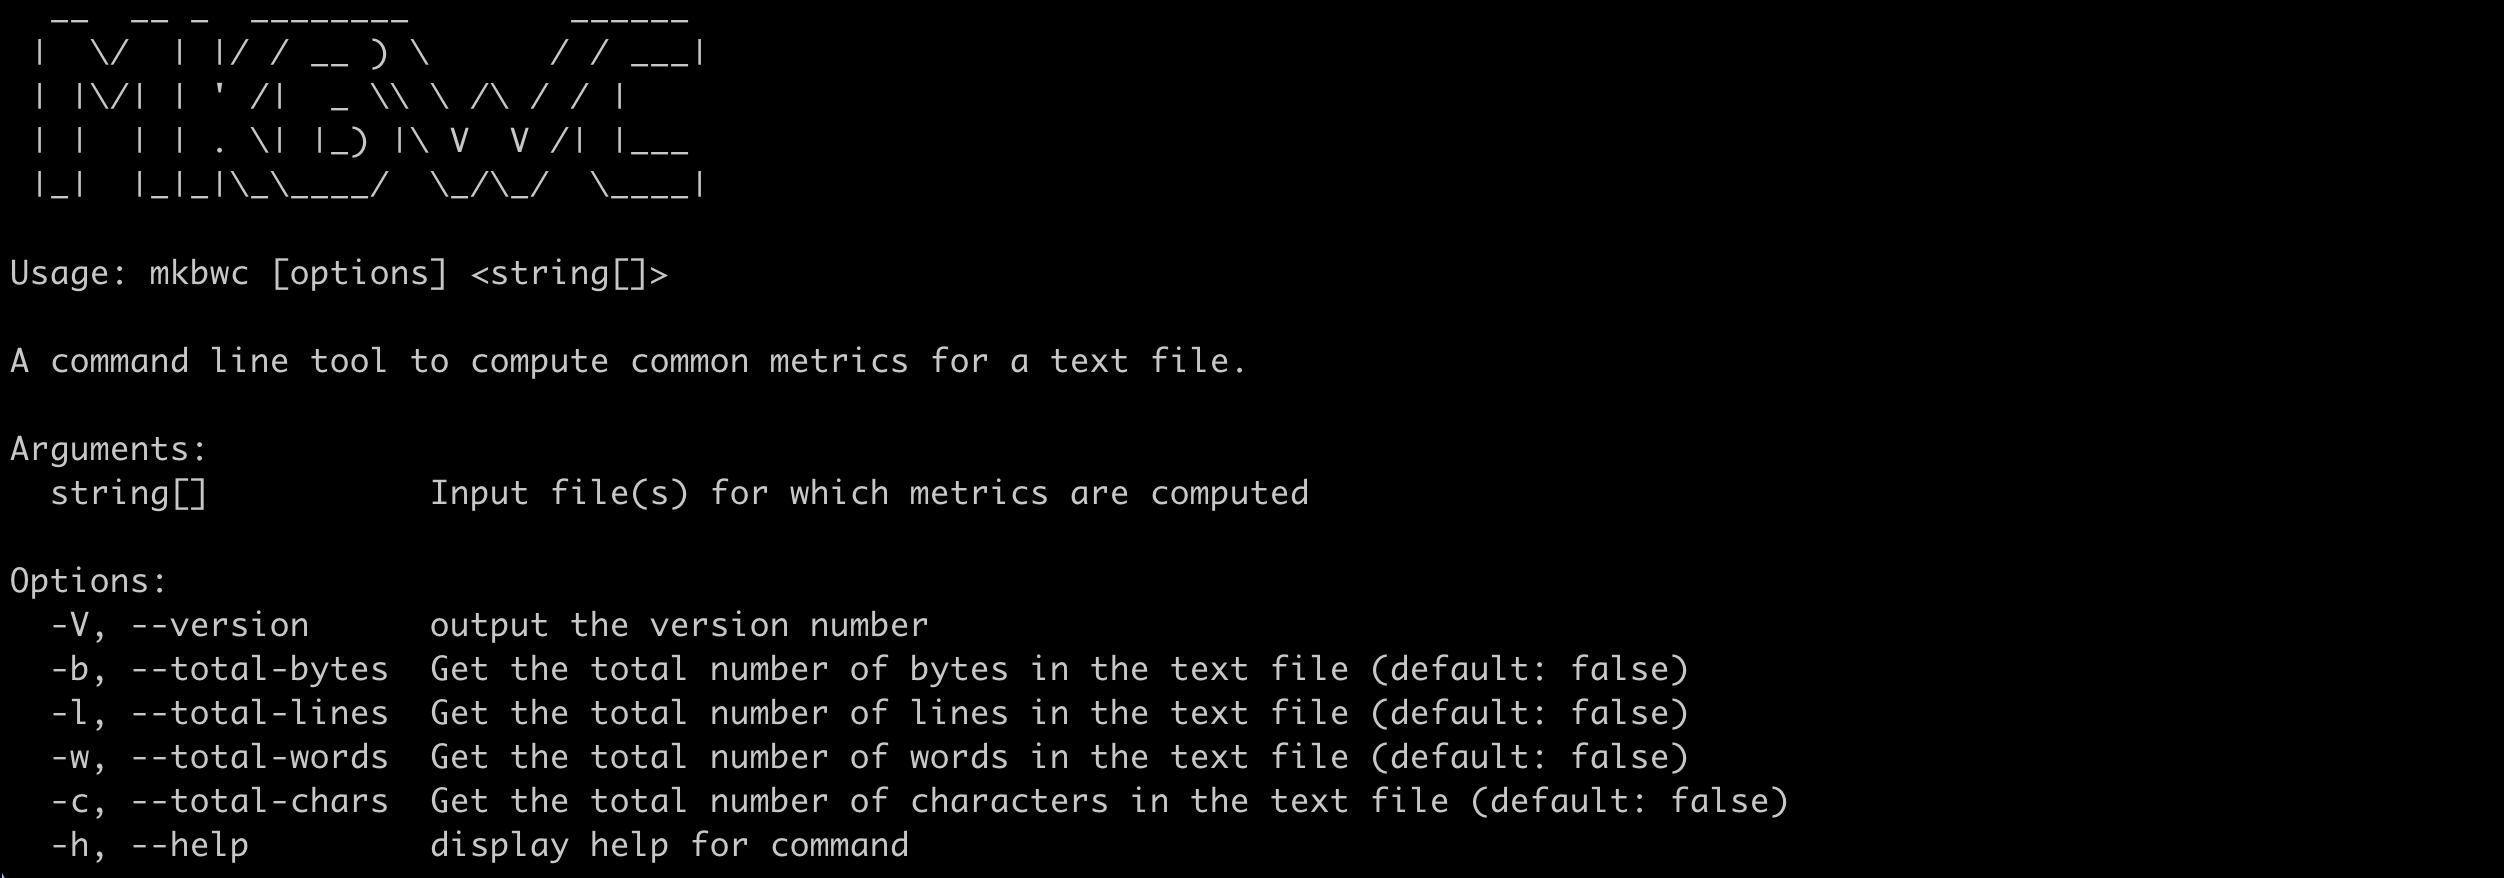
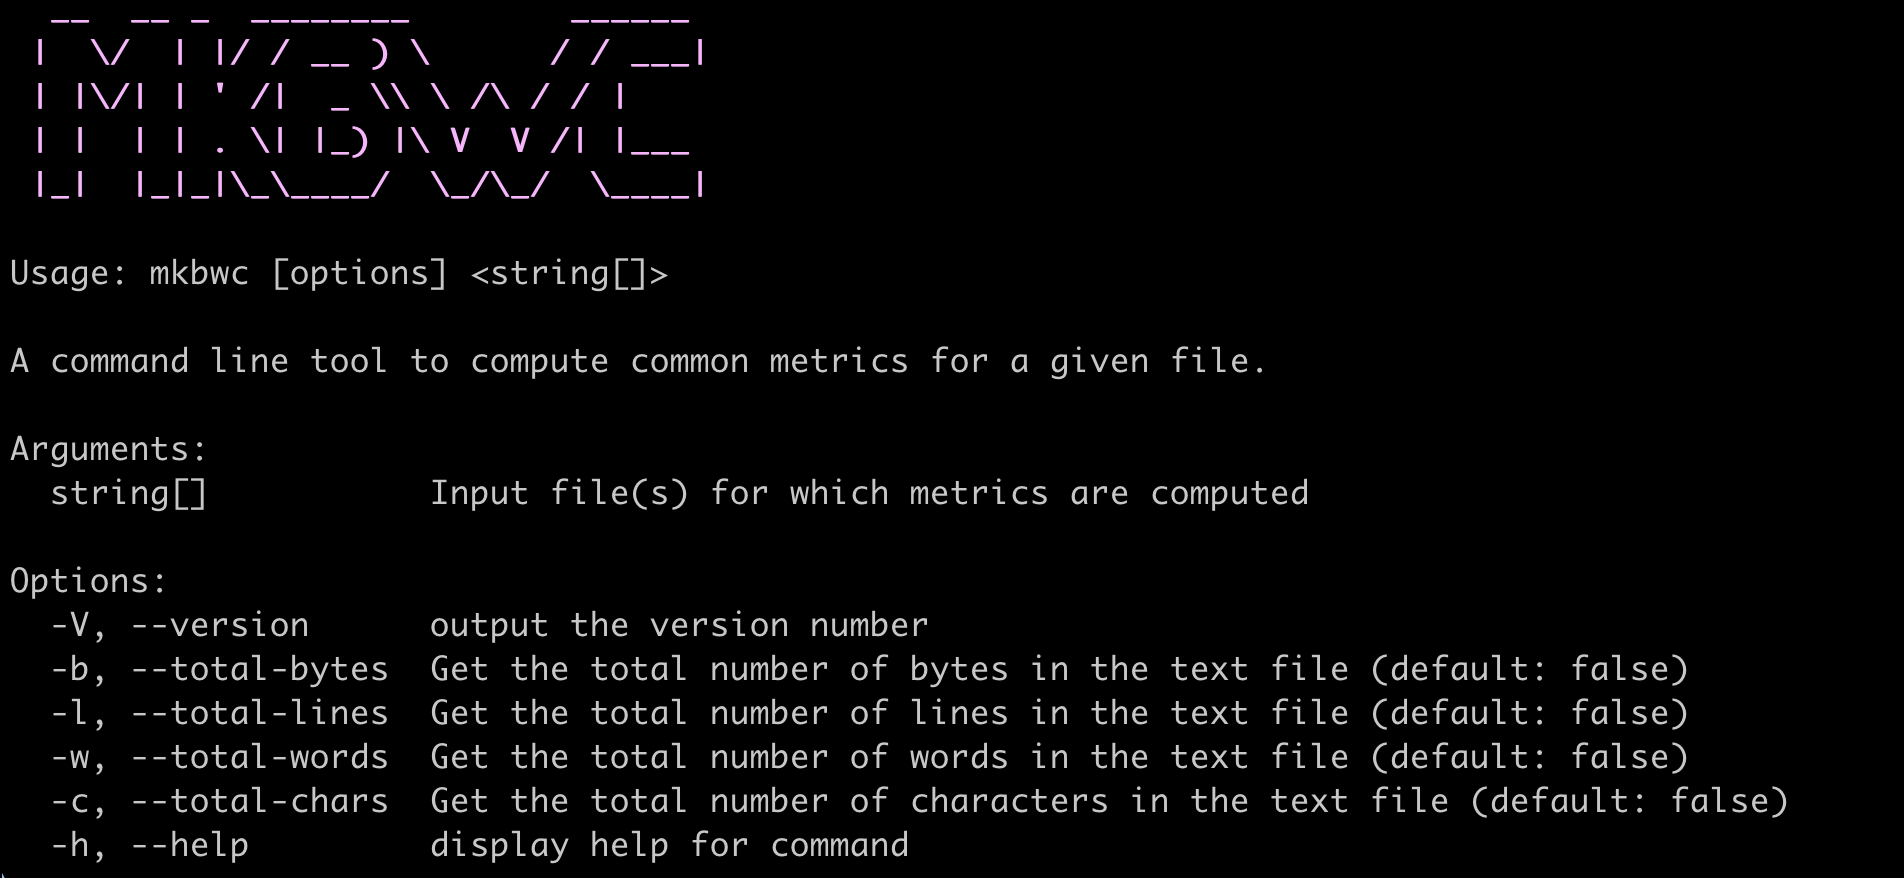
Refactored metric calculation logic, added new test files and updated README

diff --git a/index.js b/index.js
@@ -2,18 +2,20 @@
 
 import { Command } from "commander";
 import figlet from "figlet";
+import chalk  from "chalk";
 import FileMetrics from "./lib/FileMetrics.js";
 import { isFileAccessible } from "./lib/utils.js";
 
-console.log(figlet.textSync("MKBWC"));
+const cmdTitle = chalk.bold.magentaBright;
+console.log(cmdTitle(figlet.textSync("MKBWC")));
 const program = new Command();
 program
     .version("1.0.0")
-    .description("A command line tool to compute common metrics for a text file.")
-    .option("-b, --total-bytes", "Get the total number of bytes in the text file", false)
-    .option("-l, --total-lines", "Get the total number of lines in the text file", false)
-    .option("-w, --total-words", "Get the total number of words in the text file", false)
-    .option("-c, --total-chars", "Get the total number of characters in the text file", false)
+    .description("A command line tool to compute common metrics for a given file.")
+    .option("-b, --total-bytes", "Get the total number of bytes in the text file.", false)
+    .option("-l, --total-lines", "Get the total number of non-empty lines in the text file.", false)
+    .option("-w, --total-words", "Get the total number of non-empty words in the text file.", false)
+    .option("-c, --total-chars", "Get the total number of characters in the text file. This does not include whitespaces or end-of-line characters.", false)
     .argument("<string[]>", "Input file(s) for which metrics are computed")
     .parse(process.argv);
 
@@ -23,7 +25,6 @@ files.forEach(file => {
     if(isFileAccessible(file))
     {
         let totalBytes = 0, totalLines = 0, totalWords = 0, totalChars = 0;
-        let result = Object.create(null);
         let fileMetric = new FileMetrics(file);
         totalBytes = fileMetric.GetTotalBytes();
         totalLines = fileMetric.GetTotalLines();
@@ -32,40 +33,15 @@ files.forEach(file => {
         
         if(opts.totalBytes || opts.totalLines || opts.totalWords || opts.totalChars)
         {
-            if(opts.totalBytes)
-            {
-                result["byte_count"] = totalBytes;
-            }
-
-            if(opts.totalLines)
-            {
-                result["line_count"] = totalLines;
-            }
-
-            if(opts.totalWords)
-            {
-                result["word_count"] = totalWords;
-            }
-
-            if(opts.totalChars)
-            {
-                result["char_count"] = totalChars;
-            }
-
-            result["file"] = file;
+            console.log(` \t ${ opts.totalBytes ? totalBytes : "" } \t ${ opts.totalLines ? totalLines : "" } \t ${ opts.totalWords ? totalWords : "" } \t ${ opts.totalChars ? totalChars : "" } \t ${file}`);
         }
         else
         {
-            result["line_count"] = totalLines;
-            result["word_count"] = totalWords;
-            result["char_count"] = totalChars;
-            result["file"] = file;
+            console.log(` \t ${ opts.totalLines ? totalLines : "" } \t ${ opts.totalWords ? totalWords : "" } \t ${ opts.totalChars ? totalChars : "" } \t ${file}`);
         }
-
-        console.table(result);
     }
     else
     {
-        console.error(`mkbwc: ${file}: File is either not available or not accessible.`);
+        console.error(` \t mkbwc: ${file}: File is either not available or not accessible.`);
     }
 });

diff --git a/lib/FileMetrics.js b/lib/FileMetrics.js
@@ -39,7 +39,15 @@ export default class FileMetrics
         {
             let FileContents = this.ConvertBufferToString();
             let lines = FileContents.split("\n");
-            return lines.length;
+            let lineCount = 0;
+            lines.forEach(line => {
+                if(line.trim() !== "")
+                {
+                    lineCount++;
+                }
+            });
+            
+            return lineCount;
         }
         catch(err)
         {
@@ -56,9 +64,18 @@ export default class FileMetrics
             let lines = FileContents.split("\n");
             let wordCount = 0;
             lines.forEach(line => {
-                let words = line.trim().split(" ");
-                wordCount += words.length;
+                if(line.trim() !== "")
+                {
+                    let words = line.trim().split(" ");
+                    words.forEach(word => {
+                        if(word.trim() !== "")
+                        {
+                            wordCount++;
+                        }
+                    });
+                }
             });
+
             return wordCount;
         }
         catch(err)
@@ -76,9 +93,19 @@ export default class FileMetrics
             let lines = FileContents.split("\n");
             let charCount = 0;
             lines.forEach(line => {
-                // Adding 1 to the line length to account for the newline character.
-                charCount += line.length + 1;
+                if(line.trim() !== "")
+                {
+                    let words = line.trim().split(" ");
+                    words.forEach(word => {
+                        if(word.trim() !== "")
+                        {
+                            word = word.trim();
+                            charCount += [...word].length; 
+                        }
+                    });
+                }
             });
+
             return charCount;
         }
         catch(err)

diff --git a/README.md b/README.md
@@ -6,17 +6,40 @@
 
 ## Setting it up locally
 
-To run the command locally, clone the github repository to a local machine and run the below commands.
+Clone the github repository to your local machine and run the below commands.
 
 ```bash
-# Install all the dependencies for the project.
+# This command installs all the dependencies for the project.
 npm install
 
-# Install the command line tool globally, so that it can be used anywhere in the machine.
+# This command runs the application with a sample text file and produces the output.
+npm start
+```
+
+To run this command in a linux-like fashion i.e., `mkbwc -l -c root.txt`, perform the below steps.
+
+```bash
+# This command checks if mkbwc is already installed.
+mkbwc -V
+```
+
+If the command returns a valid version, execute the below command.
+
+```bash
+# This command uninstalls the mkbwc package globally in the system.
+npm uninstall -g
+```
+
+If the `mkbwc -V` command throws a command not found error, then execute the below.
+
+```bash
+# This command installs the mkbwc package globally.
 npm install -g
 ```
 
-This global installation works because of the following configuration made in the project.
+## Linux-like Implementation
 
-- Adding the **bin** object at top-level of the `package.json` file. This object contains a key for a command - `mkbwc` and the value for this key points to the file that must be executed, when this command is invoked in the command line.
+This linux-like implementation works because of the below configuration made in the project.
+
+- Adding the **bin** object at top-level of the `package.json` file. This object contains a key for command `mkbwc` and the value points to the starter javascript file that must be executed, when this command is invoked in the command line.
 - At the top of `index.js` (the root file to executed), a `shebang` line is added which tells the system that the file must be executed with `node` compiler. 
